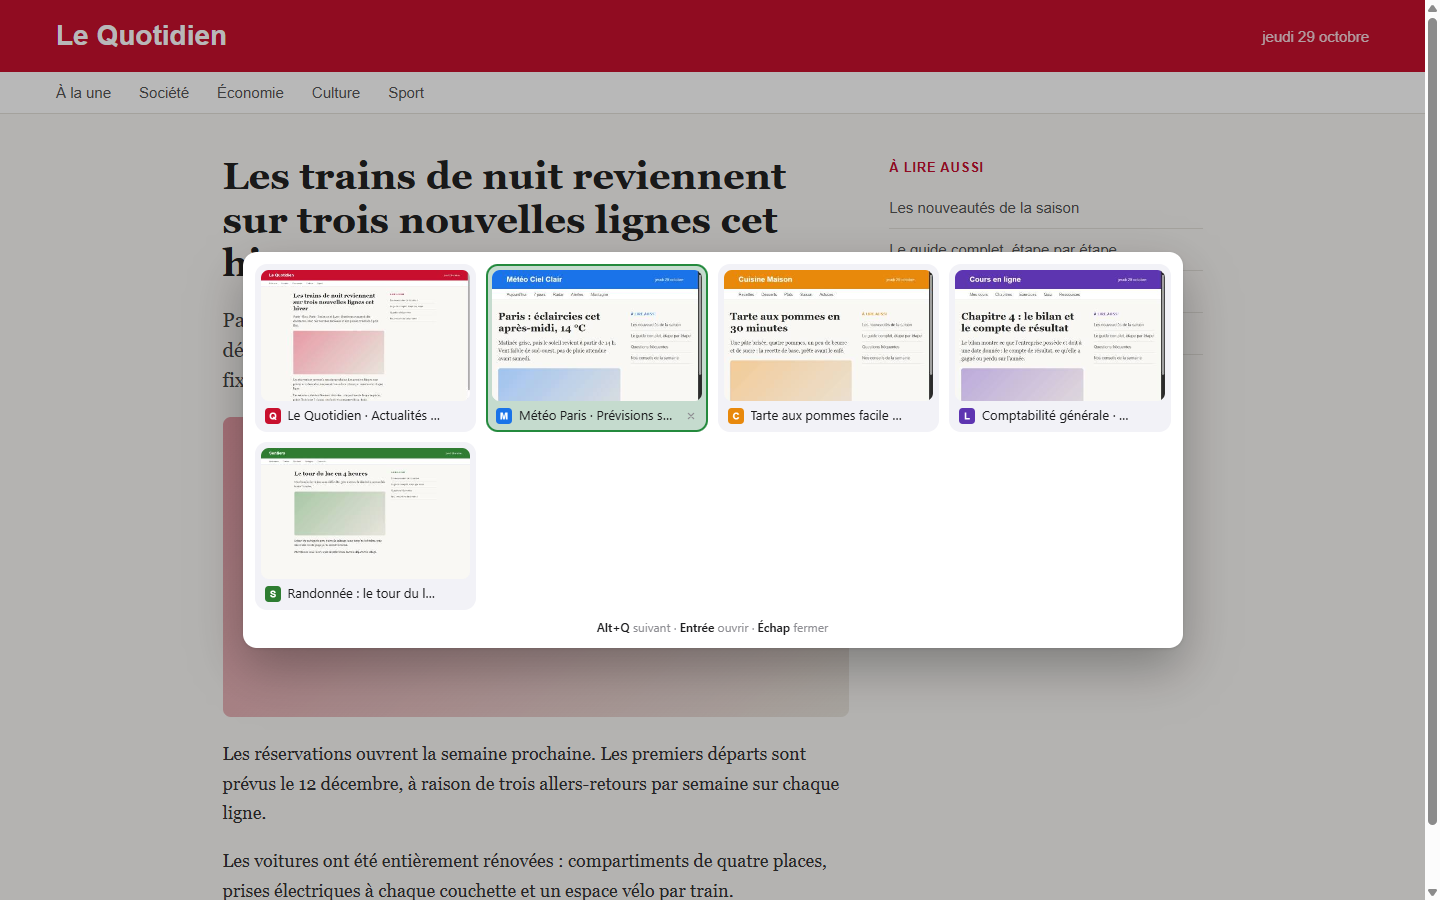
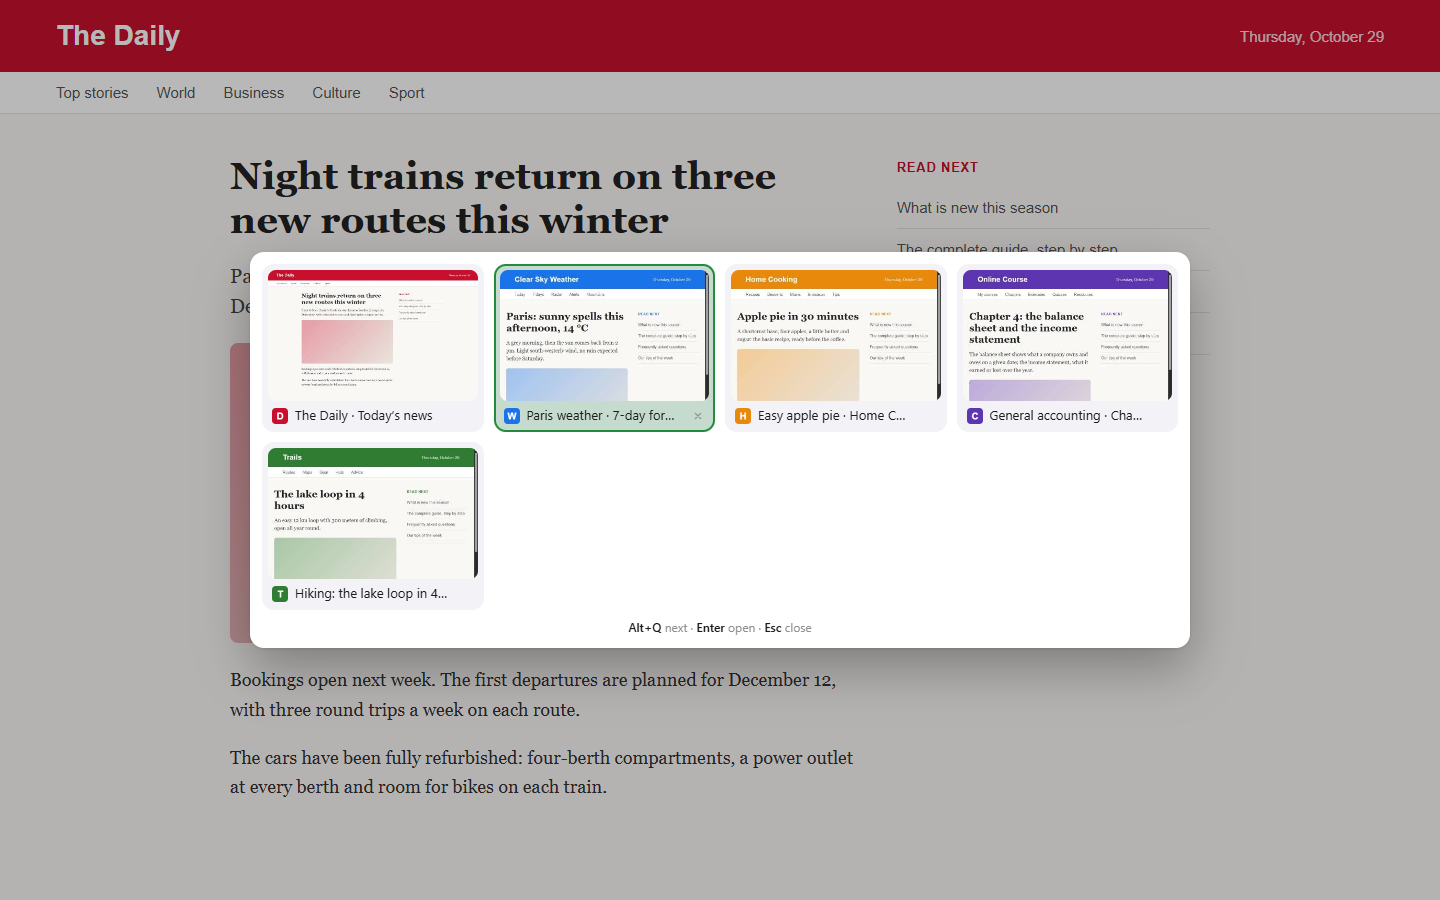
Translate the interface: English by default, French kept, through Chrome's language files

diff --git a/background.js b/background.js
@@ -6,6 +6,9 @@
 
 const DEFAULT_SETTINGS = { enabled: true, bottom: true };
 
+// Textes dans la langue de Chrome (_locales).
+const t = (key, ...subs) => chrome.i18n.getMessage(key, subs.map(String)) || key;
+
 // Le Web Store refuse les scripts d'extension, comme les pages de Chrome.
 const STORE = /^https:\/\/(chromewebstore\.google\.com|chrome\.google\.com\/webstore)/;
 
@@ -73,7 +76,7 @@ const settings = async () => ({ ...DEFAULT_SETTINGS, ...(await chrome.storage.lo
 // Un souci est gardé pour la bulle de l'icône, qui l'affiche tel quel.
 const report = (error) => {
   console.error(error);
-  chrome.storage.session.set({ trouble: `${new Date().toLocaleTimeString('fr-FR')} · ${error?.message || error}` });
+  chrome.storage.session.set({ trouble: `${new Date().toLocaleTimeString(chrome.i18n.getUILanguage())} · ${error?.message || error}` });
 };
 
 // Les changements de fenêtre passent l'un après l'autre : deux événements
@@ -102,7 +105,7 @@ const setState = async (windowId, wanted) => {
     if ((await chrome.windows.get(windowId)).state === wanted) return;
     await wait(250);
   }
-  throw new Error(`La fenêtre n'a pas voulu passer en mode ${wanted === 'fullscreen' ? 'plein écran' : 'normal'}.`);
+  throw new Error(t('windowRefused', t(wanted === 'fullscreen' ? 'modeFullscreen' : 'modeNormal')));
 };
 
 const applyNow = async (windowId) => {
@@ -194,12 +197,12 @@ const reveal = (windowId) =>
     return true;
   });
 
-const CAUSES = { mouse: 'souris remontée dans la page', focus: 'retour sur Chrome' };
+const CAUSES = { mouse: 'causeMouse', focus: 'causeFocus' };
 
 // Diagnostic : une barre Windows refermée presque aussitôt est notée pour la bulle de l'icône.
 const note = (shown, cause) => {
   const ms = Date.now() - (shown?.at || 0);
-  if (ms < 1500) chrome.storage.session.set({ bottomNote: `${new Date().toLocaleTimeString('fr-FR')} · barre Windows refermée après ${ms} ms (${CAUSES[cause]})` });
+  if (ms < 1500) chrome.storage.session.set({ bottomNote: `${new Date().toLocaleTimeString(chrome.i18n.getUILanguage())} · ${t('bottomClosed', ms, t(CAUSES[cause]))}` });
 };
 
 const unreveal = (windowId, cause) =>
@@ -255,9 +258,9 @@ const faviconOf = async (url) => {
 const titleOf = (tab) => {
   if (tab.title) return tab.title;
   try {
-    return new URL(tab.pendingUrl || tab.url).hostname || 'Nouvel onglet';
+    return new URL(tab.pendingUrl || tab.url).hostname || t('newTab');
   } catch {
-    return 'Nouvel onglet';
+    return t('newTab');
   }
 };
 
@@ -340,7 +343,7 @@ const captureSoon = (windowId, tabId, delay) => setTimeout(() => capture(windowI
 
 const hostOf = (tab) => {
   const url = tab.pendingUrl || tab.url || '';
-  if (/^chrome:\/\/newtab\/?$/.test(url)) return 'Nouvel onglet';
+  if (/^chrome:\/\/newtab\/?$/.test(url)) return t('newTab');
   try {
     const parsed = new URL(url);
     return /^https?:$/.test(parsed.protocol) ? parsed.hostname.replace(/^www\./, '') : url.replace(/\/$/, '');

diff --git a/popup.js b/popup.js
@@ -17,7 +17,7 @@ const drawStatus = async () => {
   byId('enabled').checked = settings.enabled;
   byId('bottom').checked = settings.bottom;
   byId('helpBottom').hidden = !settings.bottom;
-  byId('status').textContent = !settings.enabled ? 'Désactivé' : web ? 'Actif' : 'Page de Chrome : fenêtre normale';
+  byId('status').textContent = t(!settings.enabled ? 'statusOff' : web ? 'statusOn' : 'statusChromePage');
 };
 
 // Le raccourci réellement attribué : Alt+Q par défaut, modifiable dans Chrome.
@@ -27,21 +27,21 @@ const drawShortcut = async () => {
   const key = document.createElement('b');
   if (command?.shortcut) {
     key.textContent = command.shortcut;
-    help.replaceChildren(key, ' : tous vos onglets');
+    help.replaceChildren(key, t('gridHelpSuffix'));
   } else {
     key.textContent = 'chrome://extensions/shortcuts';
-    help.replaceChildren('Grille d’onglets sans raccourci : à choisir dans ', key);
+    help.replaceChildren(t('gridNoShortcut'), key);
   }
 };
 
 const drawTrouble = (trouble) => {
   byId('trouble').hidden = !trouble;
-  byId('trouble').textContent = trouble ? `Souci : ${trouble}` : '';
+  byId('trouble').textContent = trouble ? t('trouble', trouble) : '';
 };
 
 const drawNote = (note) => {
   byId('note').hidden = !note;
-  byId('note').textContent = note ? `Diagnostic : ${note}` : '';
+  byId('note').textContent = note ? t('diagnosticNote', note) : '';
 };
 
 byId('enabled').addEventListener('change', () => {
@@ -70,7 +70,7 @@ let grid = null;
 
 const hostOf = (tab) => {
   const url = tab.pendingUrl || tab.url || '';
-  if (/^chrome:\/\/newtab\/?$/.test(url)) return 'Nouvel onglet';
+  if (/^chrome:\/\/newtab\/?$/.test(url)) return t('newTab');
   try {
     const parsed = new URL(url);
     return /^https?:$/.test(parsed.protocol) ? parsed.hostname.replace(/^www\./, '') : url.replace(/\/$/, '');
@@ -102,7 +102,7 @@ const showGrid = async () => {
   grid = PleinGrid.build(
     tabs.map((tab) => ({
       id: tab.id,
-      title: tab.title || hostOf(tab) || 'Nouvel onglet',
+      title: tab.title || hostOf(tab) || t('newTab'),
       host: hostOf(tab),
       pinned: tab.pinned,
       current: tab.id === current?.id,

diff --git a/popup.html b/popup.html
@@ -1,5 +1,5 @@
 <!doctype html>
-<html lang="fr">
+<html lang="en">
   <head>
     <meta charset="utf-8" />
     <title>Plein</title>
@@ -13,31 +13,31 @@
       </header>
 
       <label class="card row">
-        <span>Plein écran automatique</span>
+        <span data-i18n="autoFullscreen"></span>
         <input id="enabled" class="switch" type="checkbox" />
       </label>
 
       <label class="card row">
-        <span>Barre Windows en bas</span>
+        <span data-i18n="bottomBar"></span>
         <input id="bottom" class="switch" type="checkbox" />
       </label>
 
       <ul class="card help">
         <li>
           <svg viewBox="0 0 16 16" aria-hidden="true"><path d="M8 13V3M4 7l4-4 4 4" /></svg>
-          <span>Souris tout en haut : vos onglets</span>
+          <span data-i18n="helpTop"></span>
         </li>
         <li id="helpBottom">
           <svg viewBox="0 0 16 16" aria-hidden="true"><path d="M8 3v10M4 9l4 4 4-4" /></svg>
-          <span>Souris tout en bas : la barre Windows</span>
+          <span data-i18n="helpBottom"></span>
         </li>
         <li>
           <svg viewBox="0 0 16 16" aria-hidden="true"><rect x="2" y="4" width="12" height="8" rx="2" /></svg>
-          <span><b>F11</b> désactive Plein, <b>F11</b> le réactive</span>
+          <span><b>F11</b><span data-i18n="helpF11Off"></span><b>F11</b><span data-i18n="helpF11On"></span></span>
         </li>
         <li>
           <svg viewBox="0 0 16 16" aria-hidden="true"><rect x="2.5" y="2.5" width="4.5" height="4.5" rx="1.2" /><rect x="9" y="2.5" width="4.5" height="4.5" rx="1.2" /><rect x="2.5" y="9" width="4.5" height="4.5" rx="1.2" /><rect x="9" y="9" width="4.5" height="4.5" rx="1.2" /></svg>
-          <span id="helpGrid"><b>Alt+Q</b> : tous vos onglets</span>
+          <span id="helpGrid"><b>Alt+Q</b><span data-i18n="gridHelpSuffix"></span></span>
         </li>
       </ul>
 
@@ -49,6 +49,7 @@
     <!-- Alt+Q sur une page de Chrome, où la grille ne peut pas être dessinée dans la page. -->
     <section id="gridView" hidden></section>
 
+    <script src="i18n.js"></script>
     <script src="grid.js"></script>
     <script src="popup.js"></script>
   </body>

diff --git a/grid.js b/grid.js
@@ -4,6 +4,9 @@
 // confié à qui l'a construite.
 // eslint-disable-next-line no-var
 var PleinGrid = (() => {
+  // Textes dans la langue de Chrome (_locales) ; ce fichier tourne aussi dans les pages.
+  const t = (key, ...subs) => chrome.i18n.getMessage(key, subs.map(String)) || key;
+
   const CSS = `
     :host, :root {
       --card: #ffffff;
@@ -159,11 +162,11 @@ var PleinGrid = (() => {
   const hint = () => {
     const line = document.createElement('div');
     line.className = 'grid-hint';
-    const parts = [['Alt+Q', ' suivant'], ['Entrée', ' ouvrir'], ['Échap', ' fermer']];
+    const parts = [['Alt+Q', t('hintNext')], [t('keyEnter'), t('hintOpen')], [t('keyEsc'), t('hintClose')]];
     parts.forEach(([key, text], index) => {
       const b = document.createElement('b');
       b.textContent = key;
-      line.append(...(index ? [' · '] : []), b, text);
+      line.append(...(index ? [' · '] : []), b, ' ', text);
     });
     return line;
   };
@@ -210,7 +213,7 @@ var PleinGrid = (() => {
             const close = document.createElement('span');
             close.className = 'grid-close';
             close.setAttribute('role', 'button');
-            close.setAttribute('aria-label', 'Fermer l’onglet');
+            close.setAttribute('aria-label', t('closeTab'));
             close.append(icon('M4.5 4.5l7 7M11.5 4.5l-7 7'));
             close.addEventListener('click', (event) => {
               event.stopPropagation();
@@ -256,5 +259,5 @@ var PleinGrid = (() => {
     };
   };
 
-  return { CSS, build, favicon, picture, icon };
+  return { CSS, build, favicon, picture, icon, t };
 })();

diff --git a/i18n.js b/i18n.js
@@ -1,0 +1,22 @@
+// Textes de l'interface dans la langue de Chrome, lus dans _locales/<langue>/messages.json
+// (l'anglais quand la langue n'est pas traduite).
+// Dans le HTML : data-i18n="clé" pour le texte, data-i18n-placeholder, data-i18n-title
+// et data-i18n-aria-label pour les attributs.
+const t = (key, ...subs) => chrome.i18n.getMessage(key, subs.map(String)) || key;
+
+// Pluriels : la clé reçoit le suffixe de la règle de la langue (_one, _few, _many,
+// _other…), avec _other en repli. Le nombre est le premier remplacement ($COUNT$).
+const plurals = new Intl.PluralRules(chrome.i18n.getUILanguage());
+const tp = (key, count, ...subs) =>
+  chrome.i18n.getMessage(`${key}_${plurals.select(count)}`, [count, ...subs].map(String)) || t(`${key}_other`, count, ...subs);
+
+const translatePage = (root = document) => {
+  for (const el of root.querySelectorAll('[data-i18n]')) el.textContent = t(el.dataset.i18n);
+  for (const attr of ['placeholder', 'title', 'aria-label']) {
+    for (const el of root.querySelectorAll(`[data-i18n-${attr}]`)) el.setAttribute(attr, t(el.getAttribute(`data-i18n-${attr}`)));
+  }
+  document.documentElement.lang = chrome.i18n.getUILanguage();
+  document.documentElement.dir = chrome.i18n.getMessage('@@bidi_dir') || 'ltr';
+};
+
+translatePage();

diff --git a/edges.js b/edges.js
@@ -114,7 +114,7 @@
   let barFading = null; // barre fermée, pendant qu'elle remonte
   let opening = false;
 
-  const { icon, favicon } = PleinGrid;
+  const { icon, favicon, t } = PleinGrid;
 
   const draw = (tabs) => {
     const list = document.createElement('div');
@@ -132,7 +132,7 @@
         const close = document.createElement('span');
         close.className = 'close';
         close.setAttribute('role', 'button');
-        close.setAttribute('aria-label', 'Fermer l’onglet');
+        close.setAttribute('aria-label', t('closeTab'));
         close.append(icon('M4.5 4.5l7 7M11.5 4.5l-7 7'));
         close.addEventListener('click', async (event) => {
           event.stopPropagation();
@@ -163,7 +163,7 @@
     const add = document.createElement('button');
     add.type = 'button';
     add.className = 'add';
-    add.title = 'Nouvel onglet';
+    add.title = t('newTab');
     add.append(icon('M8 3v10M3 8h10'));
     add.addEventListener('click', () => {
       send({ type: 'new' });

diff --git a/README.md b/README.md
@@ -18,7 +18,7 @@ A Chrome extension that keeps websites in full screen, with the edges of the scr
 
 <img src="screenshots/popup-light.png" width="40%" alt="The popup: two switches, for full screen and for the Windows taskbar, and four lines explaining the edges, F11 and Alt+Q"> <img src="screenshots/popup-dark.png" width="40%" alt="The same popup in dark mode">
 
-The interface is in French. The websites in the screenshots are made up for the demonstration.
+The interface follows the language of Chrome: English by default, French when Chrome is set to French. The websites in the screenshots are made up for the demonstration.
 
 ## Install
 
